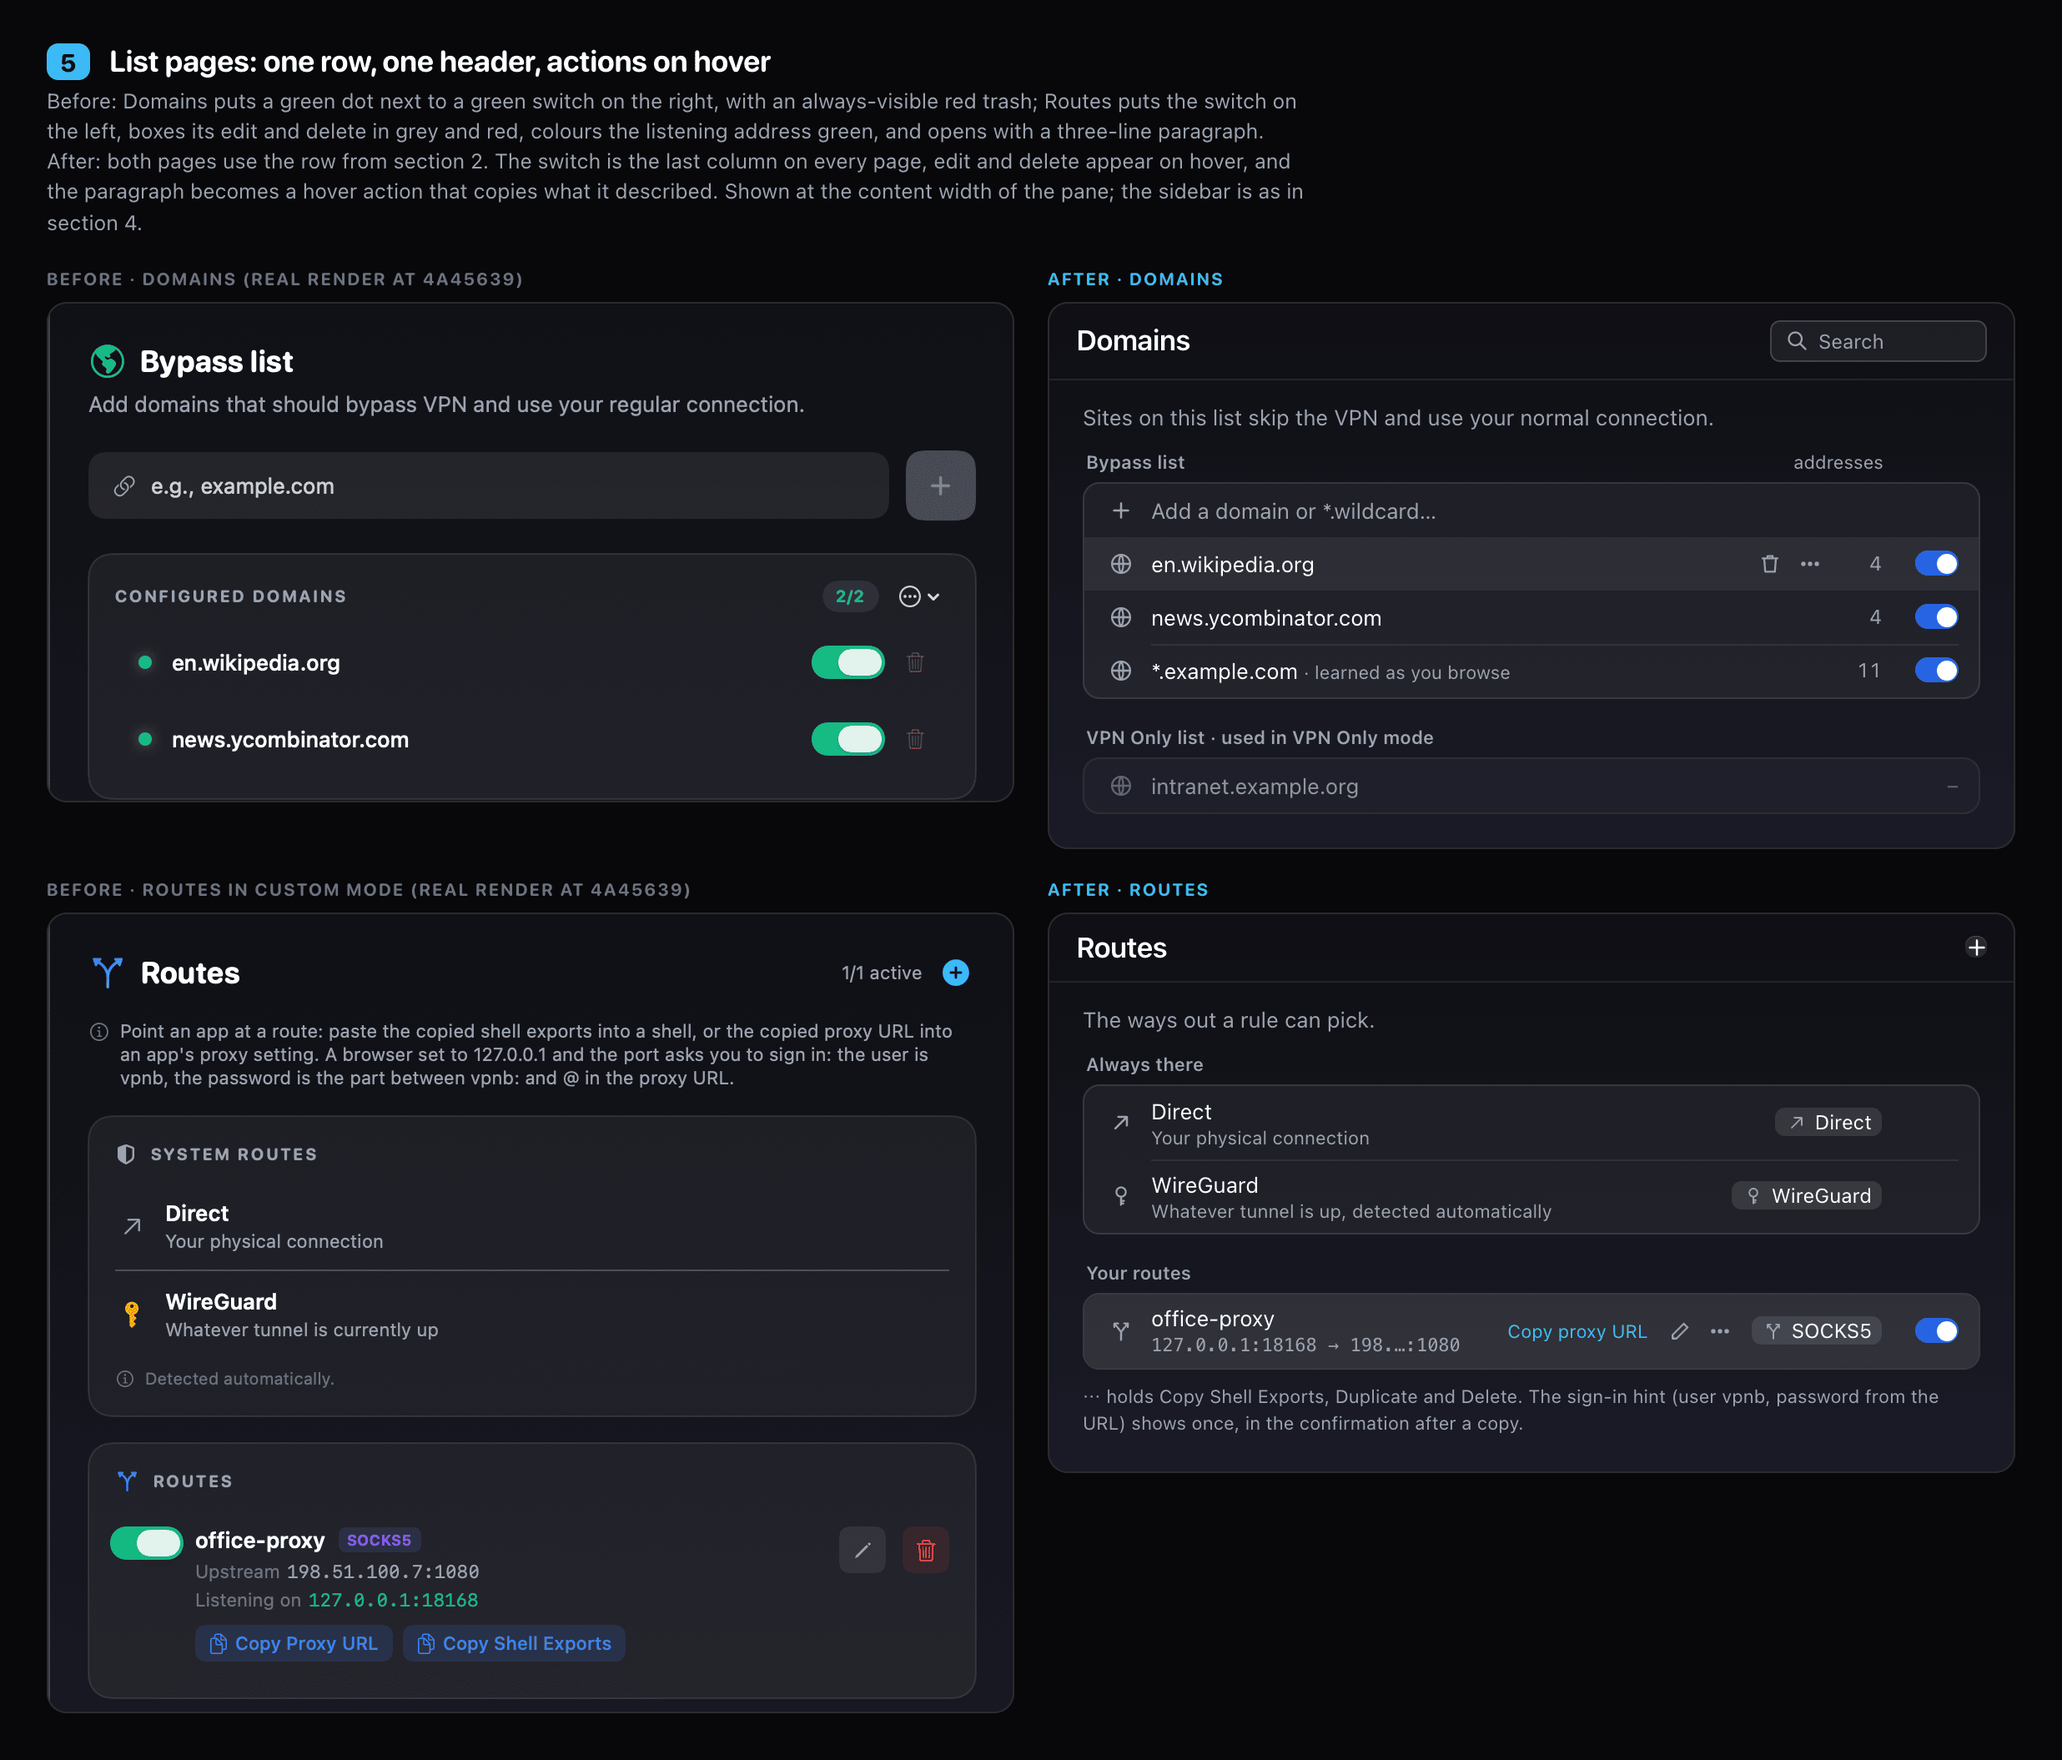
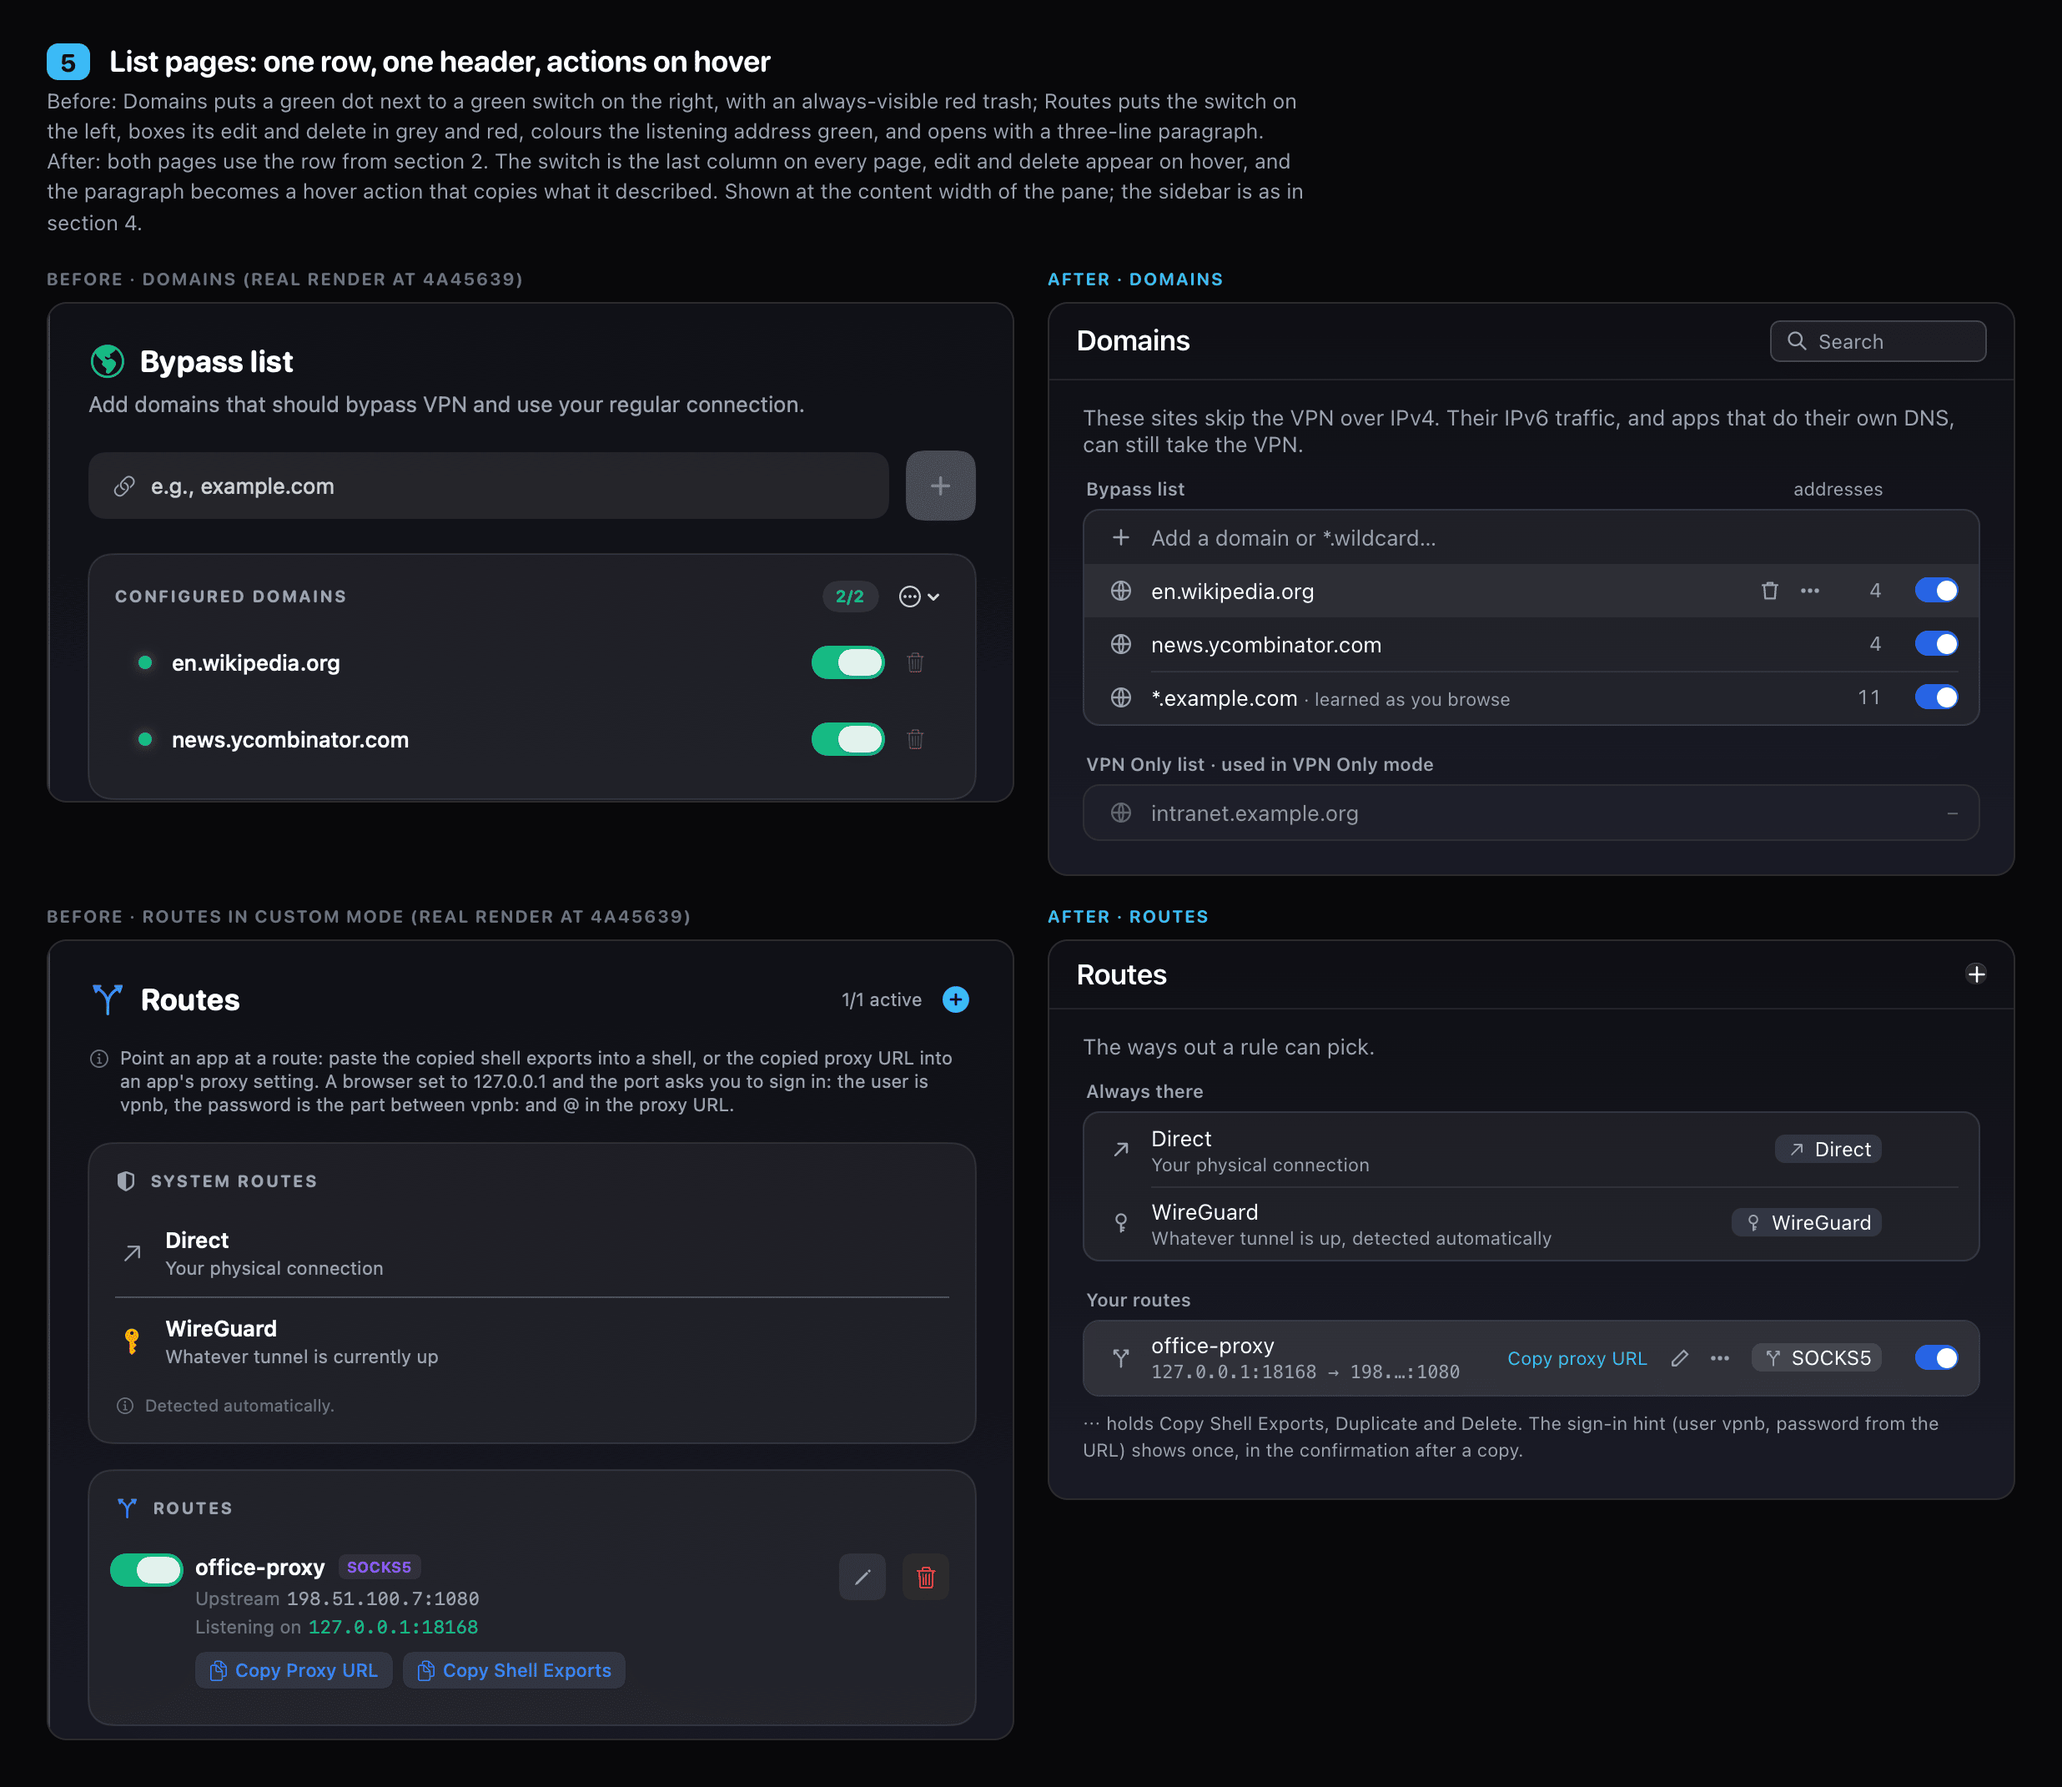
docs(design): stop the mockups promising more than IPv4 routes and kept reasons deliver

diff --git a/docs/design/proposals/rework/07-new-ideas.html b/docs/design/proposals/rework/07-new-ideas.html
@@ -56,7 +56,7 @@
         <div class="box" style="margin-top:10px">
           <div class="row2 two"><span class="lead"><i data-g="checkc" class="live"></i></span><div class="fill"><div class="name">Routed through Wi-Fi (en0)</div><div class="det">Bypass list → 4 IPv4 addresses, all 4 routed through Wi-Fi and answering on 443</div></div></div>
         </div>
-        <div class="ty-detail" style="margin-top:10px;line-height:1.5">Same answer from the CLI: <span class="ty-mono" style="font-size:11px;color:var(--t1)">vpnb why cdn.example.net --json</span> (<span class="ty-mono" style="font-size:11px">vpnb why</span> from #193, <span class="ty-mono" style="font-size:11px">--json</span> from #184). The check opens a TCP connection to port 443 and reads its source address with getsockname, so sites that block ping still get an answer. A control address the app does not route must come back the way an unlisted address should go (through the VPN in Bypass, around it in VPN Only), or the result says the check is broken. When app routes cover every control candidate, the control is skipped and the result says it ran without one.</div>
+        <div class="ty-detail" style="margin-top:10px;line-height:1.5">The CLI gives the same answer: <span class="ty-mono" style="font-size:11px;color:var(--t1)">vpnb why cdn.example.net --json</span> (<span class="ty-mono" style="font-size:11px">vpnb why</span> from #193, <span class="ty-mono" style="font-size:11px">--json</span> from #184). The check opens a TCP connection to port 443 and reads its source address with getsockname, so sites that block ping still get an answer. A control address the app does not route must come back the way an unlisted address should go (through the VPN in Bypass, around it in VPN Only), or the result says the check is broken. When app routes cover every control candidate, the control is skipped; the result should then say it ran without one (proposed: the shipped CLI omits the control line).</div>
       </div>
     </div>
   </div>

diff --git a/docs/design/proposals/rework/03-dropdown.html b/docs/design/proposals/rework/03-dropdown.html
@@ -64,7 +64,7 @@
         <div class="ddrow"><span class="lead"><i data-g="chat"></i></span><span class="name fill ell">WhatsApp</span><span class="val">12</span></div>
         <div class="ddrow"><span class="lead"><i data-g="play"></i></span><span class="name fill ell">YouTube</span><span class="val">16</span></div>
         <div class="ddrow"><span class="lead"><i data-g="music"></i></span><span class="name fill ell">Spotify</span><span class="val">8</span></div>
-        <div class="ddrow hov"><span class="lead"><i data-g="warn" class="attn"></i></span><span class="name fill ell">Zoom <span class="ty-detail">· no answer from DNS</span></span><span class="ty-detail" style="color:var(--accentText);margin-right:6px">Retry</span><span class="val">0</span></div>
+        <div class="ddrow hov"><span class="lead"><i data-g="warn" class="attn"></i></span><span class="name fill ell">Zoom <span class="ty-detail">· no addresses returned</span></span><span class="ty-detail" style="color:var(--accentText);margin-right:6px">Retry</span><span class="val">0</span></div>
         <div class="ddrow"><span class="lead"><i data-g="globe"></i></span><span class="name fill ell">en.wikipedia.org</span><span class="val">4</span></div>
         <div class="ddrow"><span class="lead"><i data-g="globe"></i></span><span class="name fill ell">news.ycombinator.com</span><span class="val">4</span></div>
         <div class="ddsep"></div>

diff --git a/docs/design/proposals/rework/05-lists.html b/docs/design/proposals/rework/05-lists.html
@@ -15,7 +15,7 @@
       <div class="pg">
         <div class="tbar"><span class="ty-title">Domains</span><span class="fill"></span><span class="field" style="width:130px"><i data-g="search"></i>Search</span></div>
         <div class="pane">
-          <div class="ty-body" style="color:var(--t2);margin:-2px 0 12px">Sites on this list skip the VPN and use your normal connection.</div>
+          <div class="ty-body" style="color:var(--t2);margin:-2px 0 12px">These sites skip the VPN over IPv4. Their IPv6 traffic, and apps that do their own DNS, can still take the VPN.</div>
           <div class="r sec"><span class="ty-section fill">Bypass list</span><span class="ty-detail" style="margin-right:58px">addresses</span></div>
           <div class="box">
             <div class="row2"><span class="lead"><i data-g="plus"></i></span><span class="name fill" style="color:var(--t2)">Add a domain or *.wildcard…</span></div>

diff --git a/docs/design/APP-REWORK-PROPOSALS.md b/docs/design/APP-REWORK-PROPOSALS.md
@@ -248,7 +248,7 @@ These are bugs. Each is S, and none depends on the rework.
 
 In the modes where it is offered, a timer runs the normal apply, and so does Resume, which is the button on line 3 of the status block while paused. While paused, nothing installs routes: not auto-apply, DNS refresh or reconnect handling, and not the add field, Domains edits or wildcard learning either (`addDomain` calls `routeNewBypassEntry`, which installs at once when the VPN is up). An entry added or changed while paused is saved, and Resume applies it. Changing mode while paused ends the pause: the switch runs the new mode's normal apply, as Resume does, so a paused Bypass session switched to VPN Only starts installing its routes into the VPN at once and never stays paused there. If that apply cannot install them (helper not ready, or an apply the app refuses for the connected VPN), the block says how many listed routes are missing, with Retry, as any failed apply does, and never shows Paused. Quitting while paused leaves nothing behind. Also as `vpnb pause 15m`. Resuming is one apply, the same write burst as Refresh, so it goes through the existing settle gate and pacer: never a burst while a struggling VPN reconnects. Size S.
 
-**3. Failures are counted, not named.** *What the user sees:* "7 failed" with no list, and only a tooltip pointing at Settings > Logs (`MenuBarViews.swift:878`). Zoom shows "no addresses" with no reason and no retry. The route-check card cannot be dismissed. *Proposal:* the reason goes in the row (▲ and "no answer from DNS"), with Retry on hover. Line 3 gets "Show", which opens Status > Problems with every failure behind the count: failed addresses with their entry and the helper's reason, and names that did not resolve, with what is known of why (section 3.4). Size S-M.
+**3. Failures are counted, not named.** *What the user sees:* "7 failed" with no list, and only a tooltip pointing at Settings > Logs (`MenuBarViews.swift:878`). Zoom shows "no addresses" with no reason and no retry. The route-check card cannot be dismissed. *Proposal:* the reason goes in the row (▲ and "no addresses returned"), with Retry on hover. Line 3 gets "Show", which opens Status > Problems with every failure behind the count: failed addresses with their entry and the helper's reason, and names that did not resolve, with what is known of why (section 3.4). Size S-M.
 
 **4. Adding the site you are on takes five steps.** Open the dropdown, click "Add Domain to Bypass", click into the field (nothing focuses it, and there is no `@FocusState`), paste, press Return. Esc does not cancel. While disconnected it is impossible, because the quick add exists only in `connectedContent` (`MenuBarViews.swift:295-298`). *Proposal:* the field is always open, in every state, with ⌘N and Esc. Idea 3 in section 5 adds a one-click row for the front browser tab. Size S for the field, M with the tab row.
 
@@ -287,7 +287,7 @@ Filtered from the product research. Two facts shape the list. First, every per-a
 - Getting around another VPN's kill switch is not on this list: `includeAllNetworks` scopes traffic above any extension of ours, so it stays impossible for a third-party app.
 - **DoH blocking**, and **attributing an exception to a process** (#184).
 
-**Dropped:** a bandwidth monitor and statistics (high effort, and idea 1 answers the real question), blocklists (a different product), iCloud sync (export and import plus profiles cover it), built-in schedules (idea 10 covers it), IPv6 leak protection as its own feature (listed names are covered: the forwarder drops AAAA answers, `WildcardDNS.swift:394-407`, and the resolver asks for IPv4 only, `DNSResolver.swift:150`; IPv6 literals and lookups that skip both, such as browser DoH, are not, and that gap is parked with NE), a separate DNS leak feature (hosts pinning and the scoped resolver cover the lookups apps make for listed names; what is left is browser DoH, parked with NE, and the app's own lookups, which ask the detected and listed DNS servers directly, so in VPN Only a listed name can still be asked of a resolver outside the VPN), and MDM templates (no demand). Any history or suggestions feature must not keep observed DNS names on disk without a new explicit decision.
+**Dropped:** a bandwidth monitor and statistics (high effort, and idea 1 answers the real question), blocklists (a different product), iCloud sync (export and import plus profiles cover it), built-in schedules (idea 10 covers it), IPv6 leak protection as its own feature (listed names are covered: the forwarder drops AAAA answers, `WildcardDNS.swift:394-407`, and the resolver asks for IPv4 only, `DNSResolver.swift:150`; IPv6 literals and lookups that skip both, such as browser DoH, are not, and that gap is parked with NE), a separate DNS leak feature (hosts pinning, when /etc/hosts management is on, covers the lookups apps make for listed names, and the scoped resolver covers wildcards; with hosts management off, ordinary listed names are looked up through the normal resolver like any other; what is left is browser DoH, parked with NE, and the app's own lookups, which ask the detected and listed DNS servers directly, so in VPN Only a listed name can still be asked of a resolver outside the VPN), and MDM templates (no demand). Any history or suggestions feature must not keep observed DNS names on disk without a new explicit decision.
 
 ## 6. Build order, in small PRs
 
